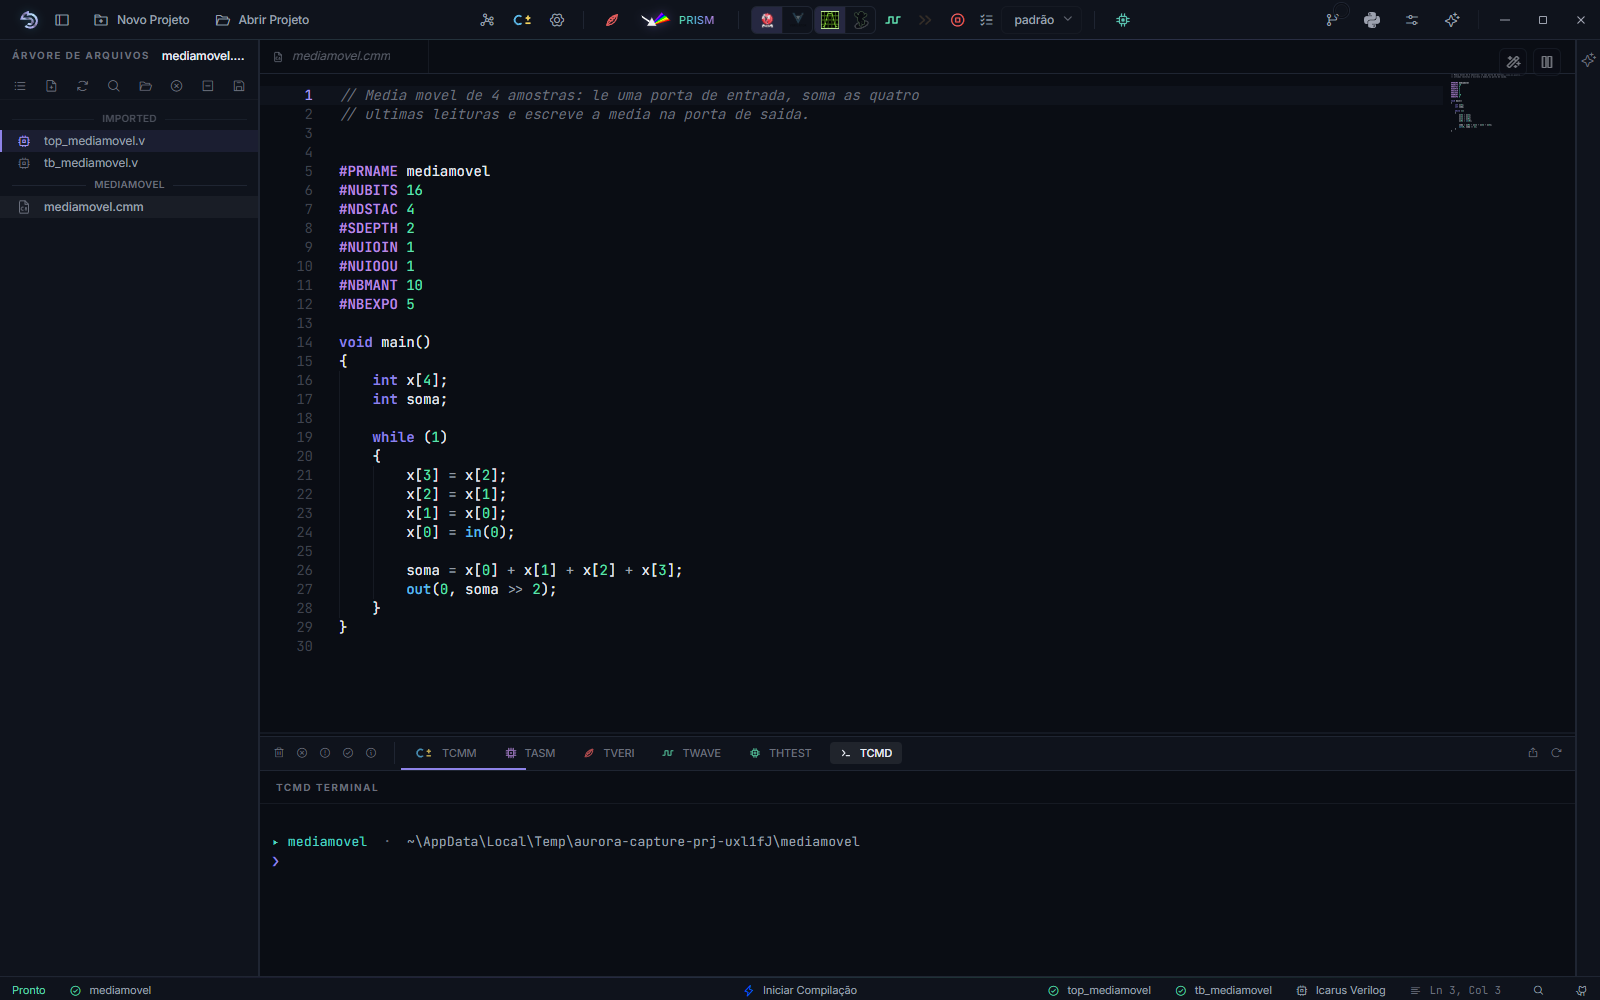
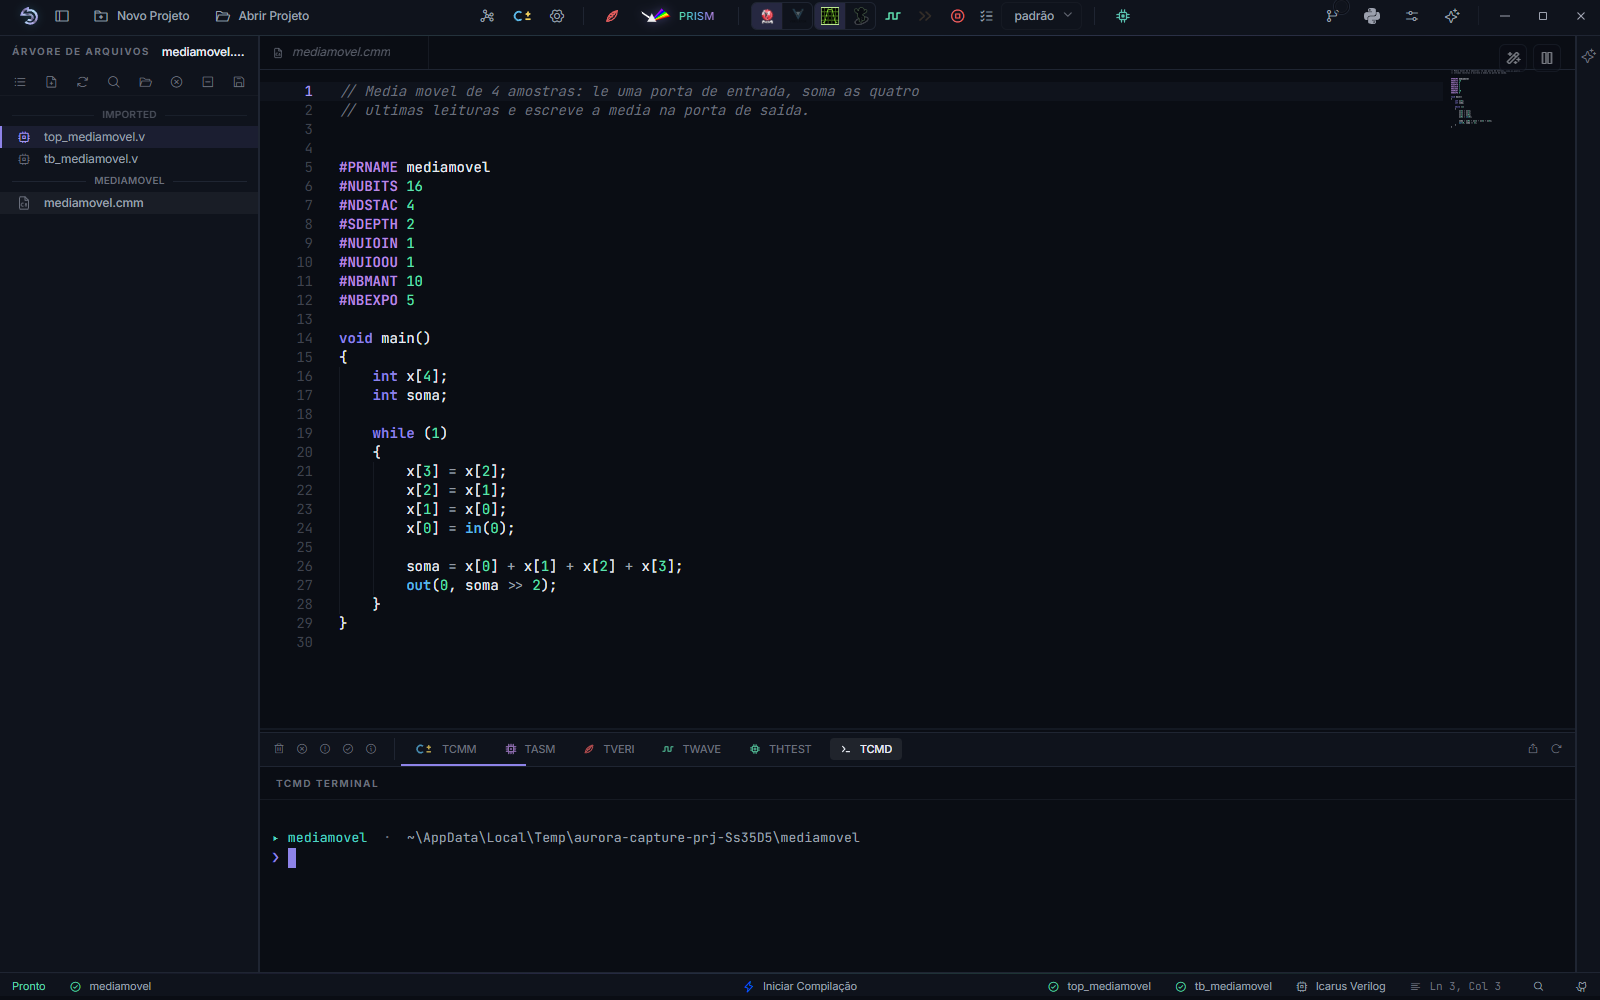
style(tokens): as tres janelas param de ter cada uma o seu ceu
Os acentos de marca ja liam o brand_tokens. As superficies e o texto nao, e as
tres tinham derivado para tres noites diferentes: o aplicativo em #0A0D14, o
splash em #03060F e a janela de atualizacao em #060A14, cada uma com a sua
rampa de texto. Ninguem escolheu isso, e aparece: o splash entregando a janela
principal era um degrau visivel de brilho, ainda mais em projetor.

O valor que de fato foi decidido e o #0A0D14, o ceu que os principios de
desenho nomeiam. Os outros dois eram deriva, entao as superficies, a rampa de
texto e a cor de erro passam a viver no brand_tokens, e as duas janelas
isoladas leem de la, como ja faziam com os acentos.

Duas coisas ficaram registradas no caminho. O splash declarava --bg-0 e --bg-1
e nunca lia nenhuma das duas, entao saem. E o gradiente do splash continua
sendo dele, mas os extremos agora sao var(--bg): os dois brilhos radiais sao a
aurora daquela tela e nao superficie, entao ficam locais de proposito.

Conferido com as duas paginas abertas de verdade e os tokens resolvidos:
--bg #0A0D14 nas duas, --danger resolvendo para o --status-error do aplicativo
em vez do rosa proprio. 981 testes unitarios e 20 E2E passam.

diff --git a/html/splash.html b/html/splash.html
@@ -9,13 +9,14 @@
   <link rel="stylesheet" href="../css/base/brand_tokens.css">
   <style>
     :root {
-      --bg-0:        #03060F;
-      --bg-1:        #061021;
-      --text:        #EAF0F8;
-      --text-soft:   #95A0B4;
-      --text-dim:    #5C6678;
-      /* Brand accents alias the canonical palette (brand_tokens.css) so the
-         splash never drifts from the app's colours. */
+      /* Surfaces, text and accents all come from brand_tokens.css, so the
+         splash cannot drift from the window it hands over to. The two
+         background tokens that used to sit here were declared and never read,
+         and the text ramp was a shade off the app's for no reason anyone
+         recorded. What is left are local aliases, which exist only to keep the
+         rules below readable. */
+      --text-soft:   var(--text-secondary);
+      --text-dim:    var(--text-muted);
       --green:       var(--aurora-mint);
       --teal:        var(--aurora-teal);
       --cyan:        var(--aurora-cyan);
@@ -48,10 +49,13 @@
       grid-template-rows: 1fr auto;
       border-radius: 18px;
       overflow: hidden;
+      /* O céu de baixo é o mesmo do aplicativo, para a passagem do splash para
+         a janela principal não ter degrau de brilho. Os dois brilhos radiais
+         ficam locais de propósito: são a aurora desta tela, não superfície. */
       background:
         radial-gradient(ellipse 90% 70% at 50% 8%,  #0E2138 0%, transparent 60%),
         radial-gradient(ellipse 80% 60% at 50% 112%, #122A44 0%, transparent 55%),
-        linear-gradient(180deg, #03060F 0%, #050B18 55%, #03060F 100%);
+        linear-gradient(180deg, var(--bg) 0%, var(--bg-elev) 55%, var(--bg) 100%);
       box-shadow:
         0 40px 90px rgba(0,0,0,0.7),
         inset 0 0 0 1px rgba(142,131,232,0.10),

diff --git a/css/base/theme_variables.css b/css/base/theme_variables.css
@@ -23,11 +23,12 @@
 :root {
   /* =========================================================================
    *  Surface — night sky depths
+   *
+   *  --bg, --bg-elev, --bg-elev-2 and --bg-elev-3 now live in brand_tokens.css
+   *  (imported above), together with the text ramp, because the splash and the
+   *  update window need the same values and used to carry their own. Only what
+   *  is app-only stays here.
    * ======================================================================= */
-  --bg:           #0A0D14;   /* canvas */
-  --bg-elev:      #0F131C;   /* sidebars, status bar */
-  --bg-elev-2:    #151A25;   /* hover, popovers */
-  --bg-elev-3:    #1B2130;   /* modals, active rows */
   --bg-overlay:   rgba(6, 8, 12, 0.72);
 
   /* Borders — barely there */
@@ -35,11 +36,7 @@
   --border:        #1F2532;
   --border-strong: #2A3040;
 
-  /* Text — 4 stops */
-  --text:           #E8ECF3;
-  --text-secondary: #9CA1AE;
-  --text-muted:     #6A6F7C;
-  --text-disabled:  #3F434E;
+  /* Text — 4 stops, in brand_tokens.css for the same reason as the surfaces. */
 
   /* Aurora palette — defined in brand_tokens.css (imported above), the single
      source of truth shared with the splash / update-notification windows. */
@@ -77,10 +74,10 @@
   --accent-border: rgba(142, 131, 232, 0.28);
   --accent-glow:   rgba(142, 131, 232, 0.42);
 
-  /* Status — desaturated, not loud */
+  /* Status — desaturated, not loud. --status-error is in brand_tokens.css,
+     because the update window reports failed downloads with it. */
   --status-success: #5DD4A8;
   --status-warning: #E8B86C;
-  --status-error:   #E26C6C;
   --status-info:    #5BB8E8;
 
   --status-success-bg: rgba(93, 212, 168, 0.08);

diff --git a/css/base/brand_tokens.css b/css/base/brand_tokens.css
@@ -14,4 +14,32 @@
   --aurora-violet: #8E83E8;   /* primary aurora */
   --aurora-purple: #B98AE0;   /* magenta corona */
   --aurora-pink:   #E68FB8;   /* sub-storm pink */
+
+  /* -------------------------------------------------------------------------
+   *  Surfaces and text, moved here for the same reason as the accents above.
+   *
+   *  The accents were shared already; these were not, and the three windows had
+   *  drifted into three different night skies: the app on #0A0D14, the splash on
+   *  #03060F and the update window on #060A14, with a different text ramp under
+   *  each. Nobody chose that, and it shows on a projector, where the splash
+   *  handing over to the app was a visible step in brightness.
+   *
+   *  #0A0D14 is the one that was actually decided: it is the `aurora-night`
+   *  background the design principles name. The other two were drift, so they
+   *  resolve here now.
+   * ---------------------------------------------------------------------- */
+  --bg:           #0A0D14;   /* canvas */
+  --bg-elev:      #0F131C;   /* sidebars, status bar */
+  --bg-elev-2:    #151A25;   /* hover, popovers */
+  --bg-elev-3:    #1B2130;   /* modals, active rows */
+
+  --text:           #E8ECF3;
+  --text-secondary: #9CA1AE;
+  --text-muted:     #6A6F7C;
+  --text-disabled:  #3F434E;
+
+  /* The one status colour the standalone windows need (the update window
+     reports a failed download). The rest of the status ramp stays in
+     theme_variables.css, where nothing outside the app reads it. */
+  --status-error:   #E26C6C;
 }

diff --git a/html/update-notification.html b/html/update-notification.html
@@ -9,20 +9,24 @@
   <link rel="stylesheet" href="../css/base/brand_tokens.css">
   <style>
     :root {
-      --bg-0:      #060A14;
-      --bg-1:      #0C1322;
-      --bg-2:      #121C30;
-      --bg-3:      #18243C;
-      --text:      #EAF0F8;
-      --text-soft: #9AA6BC;
-      --text-dim:  #5E6A80;
-      /* Brand accents alias the canonical palette (brand_tokens.css). */
+      /* Surfaces, text, accents and the error colour all come from
+         brand_tokens.css. This window used to carry its own night sky, a
+         shade lighter than the app's, plus its own text ramp and its own
+         pink for failure — three private palettes in a window whose whole job
+         is to look like the application that opened it. The names below are
+         local aliases so the rules keep reading the way they did. */
+      --bg-0:      var(--bg);
+      --bg-1:      var(--bg-elev);
+      --bg-2:      var(--bg-elev-2);
+      --bg-3:      var(--bg-elev-3);
+      --text-soft: var(--text-secondary);
+      --text-dim:  var(--text-muted);
       --green:     var(--aurora-mint);
       --teal:      var(--aurora-teal);
       --cyan:      var(--aurora-cyan);
       --violet:    var(--aurora-violet);
       --purple:    var(--aurora-purple);
-      --danger:    #FF6B8A;
+      --danger:    var(--status-error);
       --border:    rgba(142,131,232,0.16);
       --font-sans: 'Inter', system-ui, -apple-system, sans-serif;
       --font-mono: 'JetBrains Mono', ui-monospace, Consolas, monospace;
